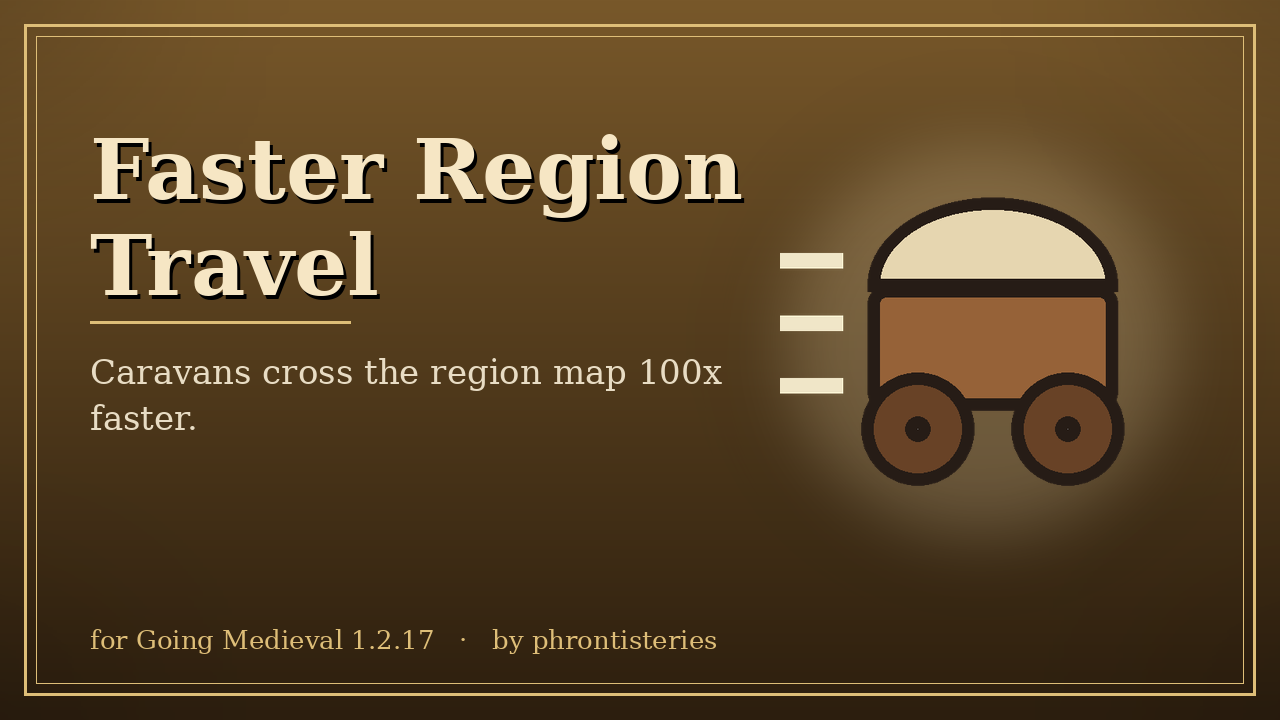
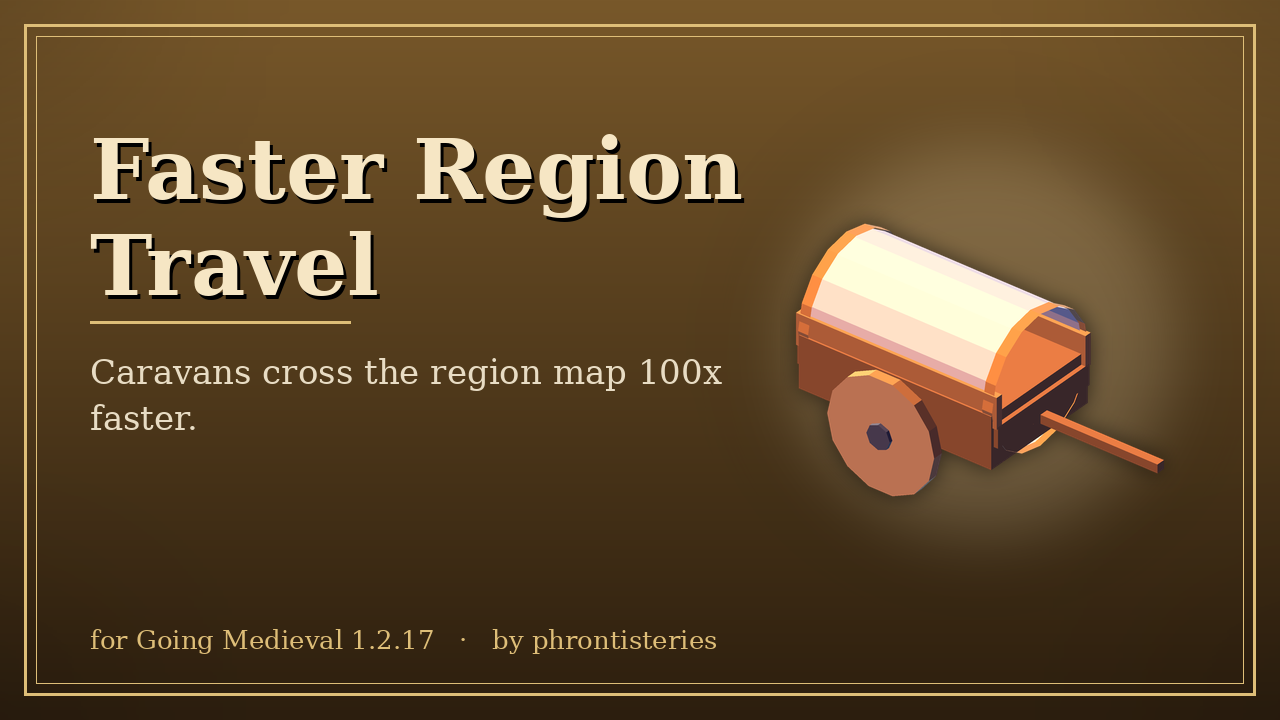
Game-style 3D preview art for the four mods without new items
Replaces the flat emblems (including the shackles on More Prisoners) with
rendered models: a sheep at its trough (Better_Animals), a covered cart
(Faster Region Travel), a fine tunic on a stand (Fine Clothing Worker) and
a white flag of surrender with a coin purse (More Prisoners).

Changed region(s): [[0.5938, 0.275, 0.9062, 0.7028]]

diff --git a/tools/art/models.py b/tools/art/models.py
@@ -84,3 +84,95 @@ def fermenting_apple_cider():
         m.sphere((x, 0.09, z), 0.09, c, seg=9, rings=6, stem=WOOD_D)
     m.box((0.32, 0.19, 0.30), (0.06, 0.012, 0.03), LEAF)
     return m
+
+
+# ---- preview art for mods without new items (rendered like the game's icons)
+CLOTH, CLOTH_D = (250, 250, 246), (220, 220, 214)
+PURPLE, PURPLE_D, GOLD = (118, 70, 168), (88, 50, 128), (226, 182, 78)
+WOOL, WOOL_D, SKIN = (232, 236, 240), (206, 212, 220), (60, 52, 48)
+HAY, HAY_D = (226, 196, 108), (196, 164, 80)
+CANVAS = (232, 220, 186)
+
+
+def surrender_flag():
+    """More Prisoners: a white flag of surrender planted in the ground, with a merchant's coin purse."""
+    m = Model()
+    m.cylinder((0, 0, 0), 0.035, 1.9, WOOD_D, seg=8)                              # pole
+    m.sphere((0, 1.92, 0), 0.05, WOOD_L, seg=8, rings=5)
+    # waving cloth: strips that ripple along the pole
+    import math
+    cols = 8
+    for i in range(cols):
+        x0, x1 = 0.04 + i * 0.14, 0.04 + (i + 1) * 0.14
+        z0, z1 = 0.025 * math.sin(i * 0.9) + 0.06 * i, 0.025 * math.sin((i + 1) * 0.9) + 0.06 * (i + 1)   # flies slightly toward the light
+        sag0, sag1 = 0.03 * i, 0.03 * (i + 1)
+        m.quad((x0, 1.88 - sag0, z0), (x1, 1.88 - sag1, z1), (x1, 1.16 - sag1, z1), (x0, 1.16 - sag0, z0), CLOTH)
+    m.cylinder((0, 0, 0), 0.22, 0.05, (110, 92, 70), seg=10)                     # mound of earth
+    m.sphere((0.38, 0.13, 0.22), 0.14, (150, 104, 60), seg=9, rings=6)           # coin purse
+    m.cylinder((0.38, 0.25, 0.22), 0.05, 0.06, (120, 80, 46), seg=8)
+    for (x, z) in ((0.58, 0.12), (0.64, 0.30), (0.52, 0.36)):
+        m.cylinder((x, 0, z), 0.06, 0.02, GOLD, seg=10)                           # coins
+    return m
+
+
+def sheep():
+    m = Model()
+    m.box((0, 0.48, -0.05), (0.40, 0.34, 0.56), WOOL, top=WOOL)                   # body (long along z)
+    for dz in (-0.22, -0.05, 0.12):                                               # woolly lumps
+        m.sphere((0, 0.66, dz), 0.14, WOOL_D if dz else WOOL, seg=7, rings=4)
+    m.box((0.05, 0.6, 0.27), (0.16, 0.18, 0.18), SKIN)                             # head, facing the viewer (+z)
+    m.box((0.15, 0.67, 0.25), (0.08, 0.03, 0.06), SKIN); m.box((-0.05, 0.67, 0.25), (0.08, 0.03, 0.06), SKIN)  # ears
+    for x in (-0.12, 0.12):
+        for z in (-0.25, 0.14):
+            m.box((x, 0.16, z), (0.07, 0.32, 0.07), SKIN)                         # legs
+    return m
+
+
+def animal_pen():
+    """Better Animals: a sheep at a hay-filled trough by a short fence."""
+    m = Model()
+    m.add(sheep(), (-0.15, 0, 0.05))
+    m.box((0.62, 0.18, -0.05), (0.26, 0.2, 0.7), WOOD, top=WOOD_D)                # trough
+    m.box((0.62, 0.3, -0.05), (0.2, 0.06, 0.62), HAY, top=HAY)
+    m.box((0.95, 0.2, 0.55), (0.42, 0.34, 0.34), HAY, top=HAY_D)                  # hay bale, beside the trough
+    for x in (-0.9, -0.3, 0.3, 0.9):                                              # fence behind
+        m.box((x, 0.4, -0.95), (0.07, 0.8, 0.07), WOOD_D)
+    for y in (0.35, 0.65):
+        m.box((0, y, -0.95), (1.9, 0.06, 0.05), WOOD)
+    return m
+
+
+def caravan_cart():
+    """Faster Region Travel: a covered travel cart."""
+    m = Model()
+    m.box((0, 0.48, 0), (1.2, 0.12, 0.7), WOOD_D)                                 # bed
+    m.box((0, 0.62, 0.34), (1.2, 0.18, 0.04), WOOD); m.box((0, 0.62, -0.34), (1.2, 0.18, 0.04), WOOD)
+    m.lathe((0, 0.62, 0), [(0.36, -0.55), (0.36, 0.55)], CANVAS, seg=16, axis="x")   # canvas cover (a tube...)
+    m.box((0, 0.45, 0), (1.15, 0.3, 0.74), WOOD_D)                                # ...whose lower half sits in the bed
+    for x in (-0.55, 0.55):
+        m.lathe((x, 0.62, 0), [(0.37, -0.03), (0.37, 0.03)], WOOD, seg=16, axis="x")  # hoops
+    for z in (-0.42, 0.42):                                                       # wheels
+        m.cylinder((0, 0.32, z), 0.32, 0.06, WOOD, seg=14, axis="z", top=WOOD_L)
+        m.cylinder((0, 0.32, z + (0.06 if z > 0 else -0.02)), 0.07, 0.02, IRON, seg=8, axis="z")
+    m.box((0.95, 0.42, 0), (0.7, 0.05, 0.05), WOOD_D)                             # shaft
+    for (x, z) in ((0.2, 0.1), (-0.25, -0.1)):
+        m.box((x, 0.72, z), (0.22, 0.16, 0.2), (176, 132, 82))                    # cargo crates peeking out
+    return m
+
+
+def fine_tunic():
+    """Fine Clothing Worker: a superior tunic with gold trim on a wooden clothes stand."""
+    m = Model()
+    m.cylinder((0, 0, 0), 0.26, 0.05, WOOD_D, seg=10)                             # base
+    m.cylinder((0, 0, 0), 0.03, 1.55, WOOD_D, seg=8)                              # post
+    m.box((0, 1.5, 0), (0.62, 0.05, 0.05), WOOD)                                  # shoulders
+    m.box((0, 1.1, 0), (0.48, 0.7, 0.2), PURPLE, top=PURPLE_D)                    # torso
+    m.box((0, 0.66, 0), (0.56, 0.22, 0.22), PURPLE_D)                             # skirt
+    for s in (-1, 1):
+        m.box((s * 0.33, 1.28, 0), (0.18, 0.36, 0.18), PURPLE)                    # sleeves
+        m.box((s * 0.33, 1.08, 0), (0.19, 0.05, 0.19), GOLD)                      # cuffs
+    m.box((0, 1.1, 0.105), (0.05, 0.68, 0.01), GOLD)                              # placket
+    m.box((0, 0.84, 0.0), (0.5, 0.05, 0.215), GOLD)                               # belt
+    m.box((0, 0.56, 0.0), (0.57, 0.04, 0.225), GOLD)                              # hem
+    m.sphere((0, 1.44, 0.11), 0.05, GOLD, seg=8, rings=5)                         # brooch
+    return m

diff --git a/tools/art/make_art.py b/tools/art/make_art.py
@@ -106,48 +106,6 @@ def render_art(model_fn, kind, size, pitch=33):
     return out
 
 
-# ---------------------------------------------------------------- emblems for previews of mods without new items
-def emblem_animals():
-    img, d = canvas(64)
-    ellipse(d, 16, 28, 48, 58, (196, 150, 104, 255))                # paw pad
-    for (x, y) in ((12, 18), (24, 9), (40, 9), (52, 18)):
-        ellipse(d, x - 7, y - 7, x + 7, y + 7, (196, 150, 104, 255))
-    return img
-
-
-def emblem_travel():
-    img, d = canvas(64)
-    box(d, 14, 20, 54, 40, WOOD, r=3)                               # cart
-    d.pieslice((14 * S, 6 * S, 54 * S, 34 * S), 180, 360, fill=(230, 214, 176, 255), outline=INK, width=int(OUT * S / 2))
-    for x in (22, 46):
-        ellipse(d, x - 9, 34, x + 9, 52, WOOD_D)
-        ellipse(d, x - 2, 41, x + 2, 45, IRON)
-    for y in (16, 26, 36):                                          # speed lines
-        d.line(P((0, y), (10, y)), fill=(240, 230, 200, 255), width=int(2.6 * S))
-    return img
-
-
-def emblem_clothing():
-    img, d = canvas(64)
-    poly(d, [(22, 8), (42, 8), (58, 18), (52, 30), (46, 26), (46, 58), (18, 58), (18, 26), (12, 30), (6, 18)], (92, 60, 140, 255))
-    d.line(P((32, 10), (32, 58)), fill=GOLD, width=int(2.4 * S))
-    box(d, 18, 40, 46, 44, GOLD, r=1, w=2.5)
-    poly(d, [(26, 8), (38, 8), (32, 16)], (230, 214, 176, 255), w=2.5)
-    return img
-
-
-def emblem_prisoners():
-    img, d = canvas(64)
-    for cx in (20, 44):
-        d.ellipse(((cx - 13) * S, 30 * S, (cx + 13) * S, 56 * S), outline=INK, width=int(9 * S))
-        d.ellipse(((cx - 13) * S, 30 * S, (cx + 13) * S, 56 * S), outline=IRON, width=int(6 * S))
-    for i in range(3):                                              # chain
-        y = 8 + i * 8
-        d.ellipse((28 * S, y * S, 36 * S, (y + 10) * S), outline=INK, width=int(4 * S))
-        d.ellipse((28 * S, y * S, 36 * S, (y + 10) * S), outline=IRON_D, width=int(2.4 * S))
-    return img
-
-
 # ---------------------------------------------------------------- previews
 def font(size, bold=False):
     for name in (["DejaVuSerif-Bold.ttf", "georgiab.ttf"] if bold else ["DejaVuSerif.ttf", "georgia.ttf"]):
@@ -237,13 +195,13 @@ PREVIEWS = {   # mod -> (title, lines, art, gradient top, gradient bottom)
     "Fermenting Apple Cider": ("Apple Cider", ["The fermentation station makes apple cider.", "Ferments like mash, from apples."],
                                lambda: render_art(models.fermenting_apple_cider, "item", 400), (110, 52, 34), (40, 18, 12)),
     "Better_Animals": ("Better Animals", ["Every animal can be tamed, penned, trained, haul and fight.", "Much stronger haulers; tidier diets.", "Cats hunt pests."],
-                       lambda: hires(emblem_animals), (78, 92, 46), (28, 34, 16)),
+                       lambda: render_art(models.animal_pen, "building", 400), (78, 92, 46), (28, 34, 16)),
     "FasterRegionTravel": ("Faster Region Travel", ["Caravans cross the region map 100x faster."],
-                           lambda: hires(emblem_travel), (120, 88, 42), (44, 30, 14)),
+                           lambda: render_art(models.caravan_cart, "building", 400), (120, 88, 42), (44, 30, 14)),
     "Fine_Clothing_Worker": ("Fine Clothing Worker", ["Settlers in Superior or Flawless apparel work, walk, rest and fight better."],
-                             lambda: hires(emblem_clothing), (74, 46, 104), (26, 16, 40)),
+                             lambda: render_art(models.fine_tunic, "building", 400), (74, 46, 104), (26, 16, 40)),
     "More_Prisoners": ("More Prisoners", ["Raiders surrender more readily.", "Merchants trade more prisoners."],
-                       lambda: hires(emblem_prisoners), (70, 70, 76), (24, 24, 28)),
+                       lambda: render_art(models.surrender_flag, "building", 400), (70, 70, 76), (24, 24, 28)),
     # "Mushroom Cropfield" keeps its own hand-made preview.
 }
 

diff --git a/docs/GRAPHICS.md b/docs/GRAPHICS.md
@@ -19,7 +19,7 @@ Per Foxy Voxel's [modding guide](https://foxyvoxel.io/2025/03/13/modding-guide-p
 | Cold | `phrontisteries_cold_shelf`, `phrontisteries_cold_floor` | Cold Floor tinted cool blue (floor shader `_FloorColorMultiply` / `_FloorColorAdd`, no build needed). Frosted shelf model once built in Unity. | new |
 | Fermenting Apple Cider | `phrontisteries_fermenting_apple_cider` (resource and recipe) | (resource) | new |
 | Fish Farming | `phrontisteries_fish_farm` | Empty 3×3 fish-tub model once built in Unity (until then the saltpeter-pit model). While producing, the game's built-in working effect plays. | new |
-| Better_Animals, Faster Region Travel, Fine Clothing Worker, More Prisoners | (no new items) | | new |
+| Better_Animals, Faster Region Travel, Fine Clothing Worker, More Prisoners | (no new items) | | new: 3D renders of a sheep at its trough, a covered cart, a fine tunic on a stand, and a white flag of surrender |
 | Mushroom Cropfield | (uses the game's `mushroom`) | | keeps its hand-made preview |
 
 **Icons match the game's own:** like the vanilla icons, they are renders of 3D models at 128×128 with the same lighting (warm key, violet shadows, cyan rim). Buildings sit on the olive tile with the light grid and glow. Items have the thick white outline. The low-poly models are in `tools/art/models.py`, and the renderer is `tools/art/model3d.py`.
